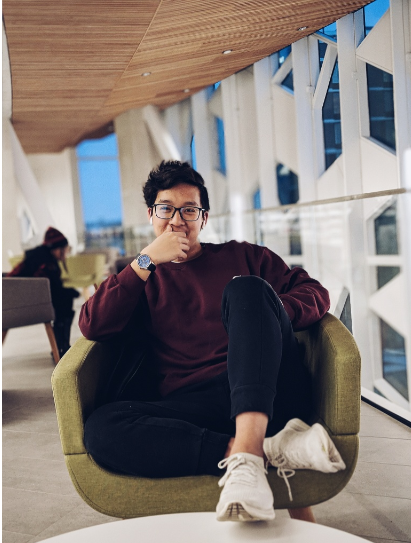
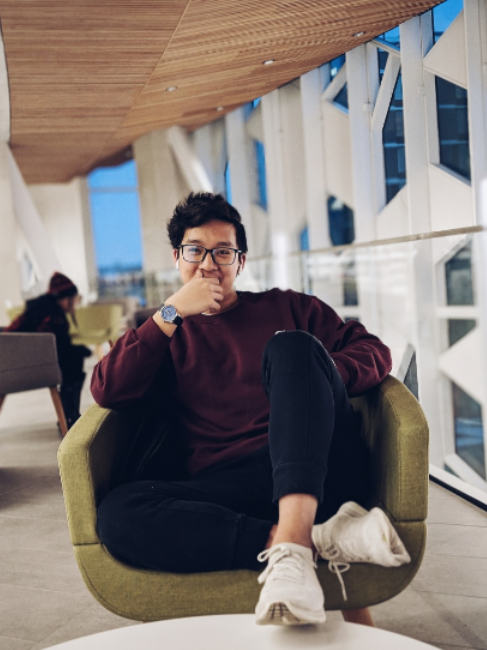
added david photo

diff --git a/index.html b/index.html
@@ -162,7 +162,7 @@
         <div class="col-lg-3 team-member-text">
           <h3>Jonathan Chong</h3>
           <p><b>VP Tech</b></p>
-          <p>Second year, Software engineering with a Biomedical Engineering Minor</p>
+          <p>Second year, Software engineering with Biomedical Engineering Minor</p>
         </div>
         <div class="col-lg-3">
           <img class="team-photo img-fluid animated fadeInRight" src="images/Jonathan Chong.png" alt="president">
@@ -171,7 +171,7 @@
       <div class="row team-member">
         <div class="col-lg-3 team-member-text">
           <h3>Ealia Khosh Kish</h3>
-          <p><b>Events</b></p>
+          <p><b>VP Events</b></p>
           <p>Second year, Biological Sciences</p>
         </div>
         <div class="col-lg-3">
@@ -217,7 +217,7 @@
           <p>Second year, Chemical Engineering with Digital Engineeing Minor</p>
         </div>
         <div class="col-lg-3">
-          <img class="team-photo img-fluid animated fadeInRight" src="images/Ealia K.png" alt="president">
+          <img class="team-photo img-fluid animated fadeInRight" src="images/David S.jpg" alt="president">
         </div>
       </div>
 
